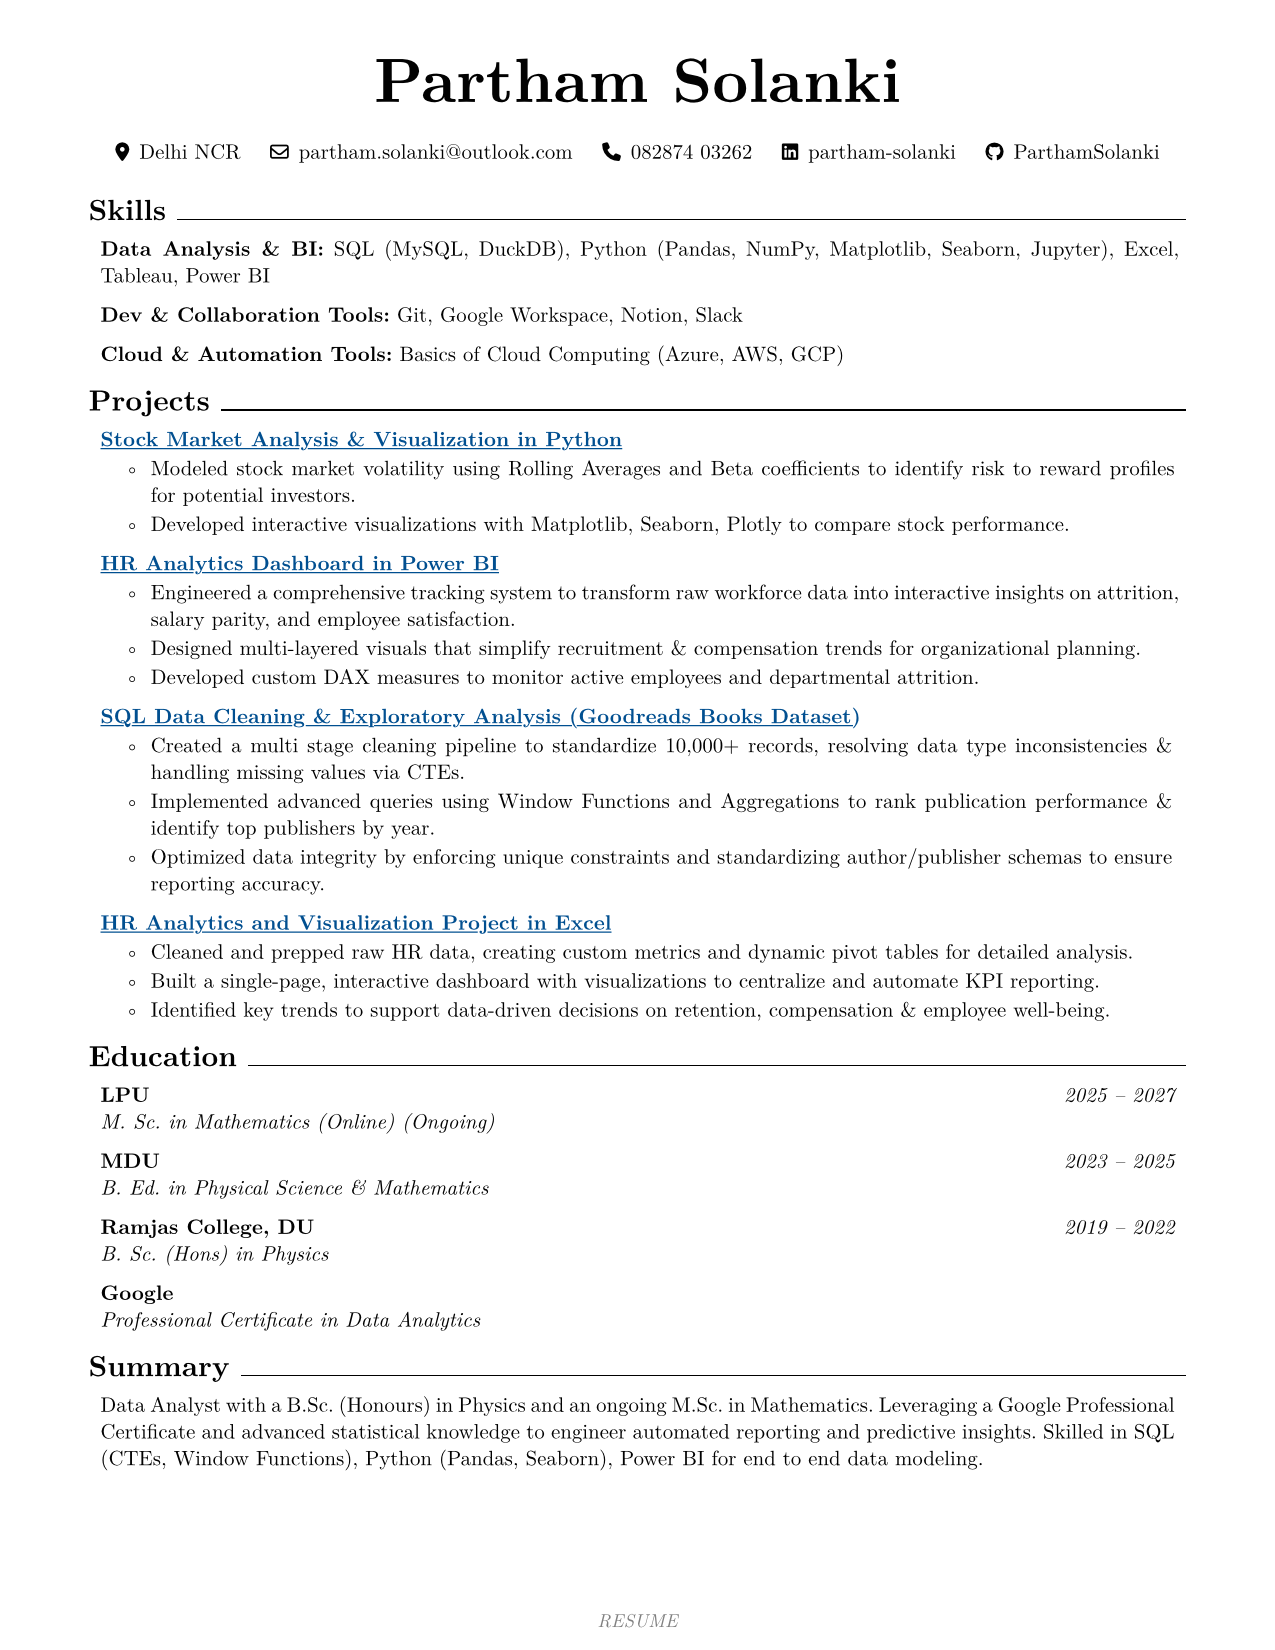
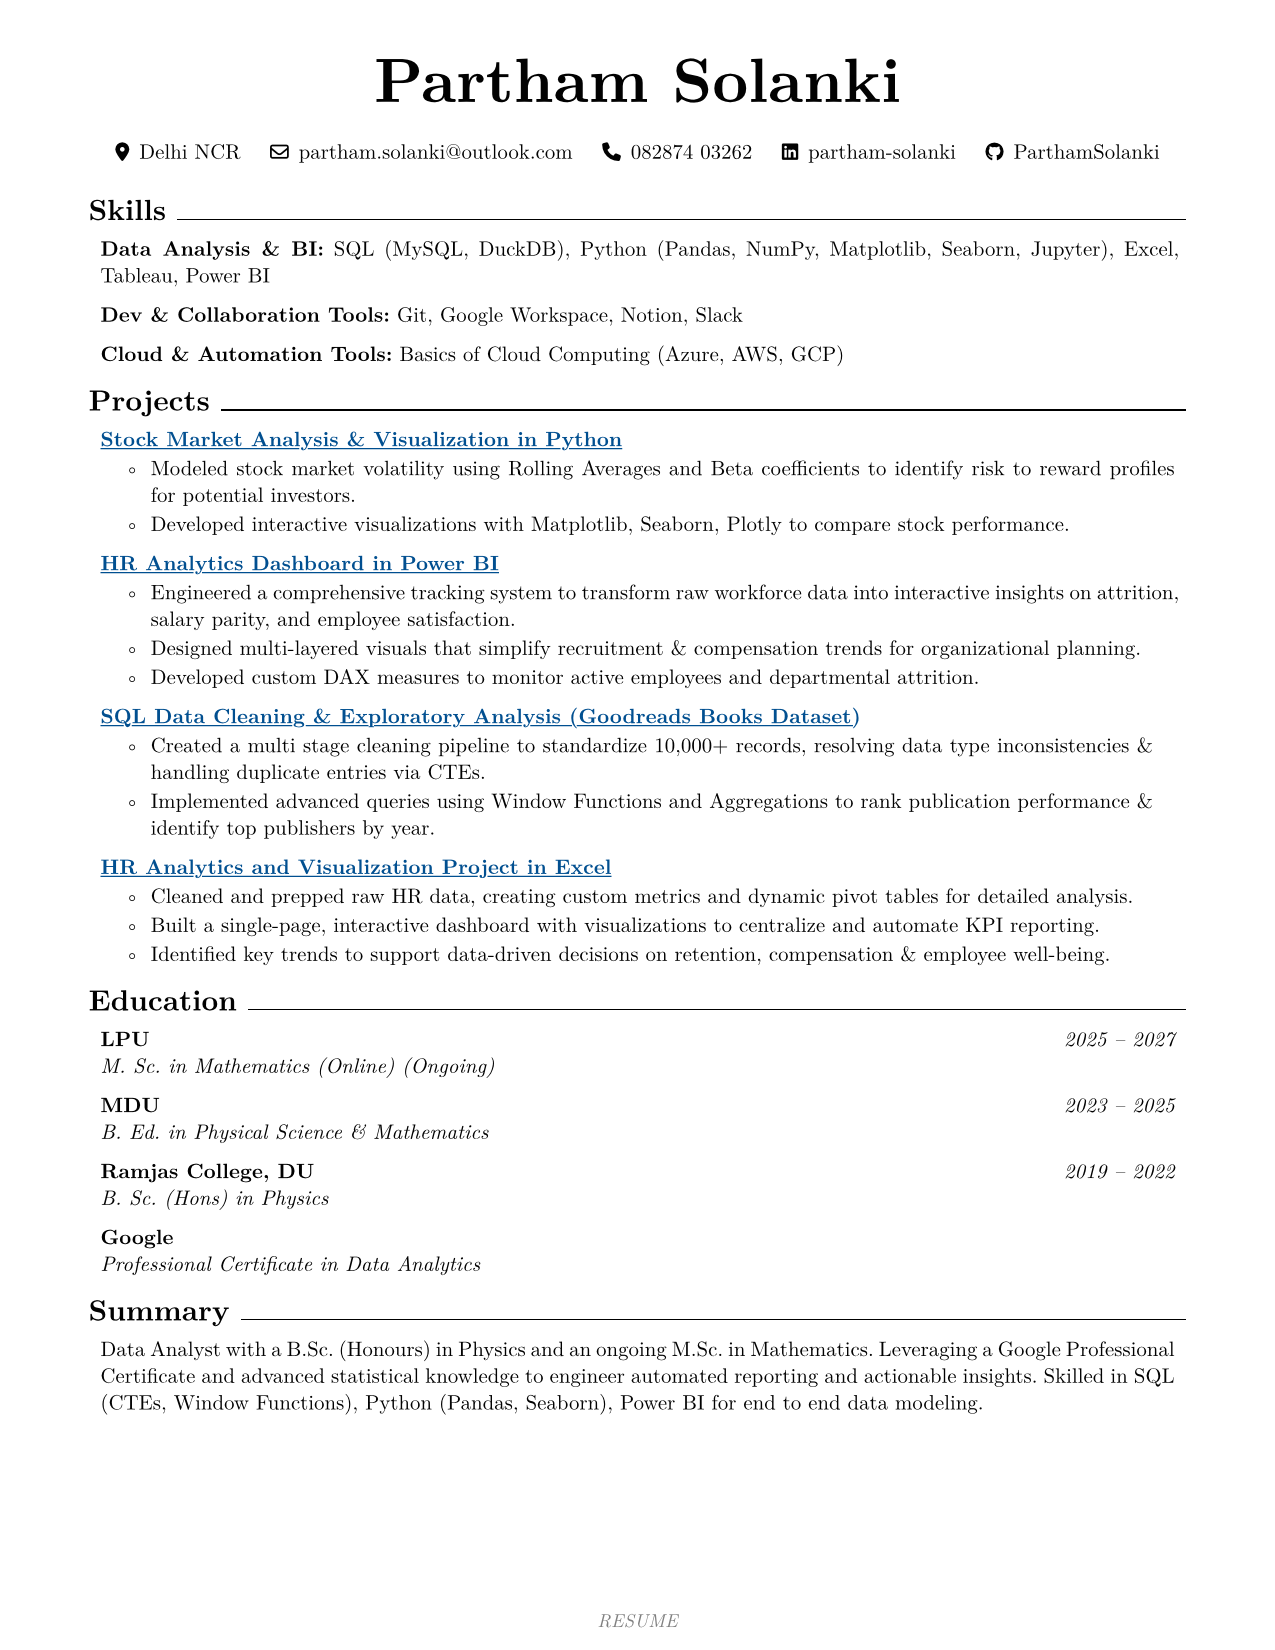
Resume updating

Changed region(s): [[0.0612, 0.4327, 0.9176, 0.8964], [0.8871, 0.6182, 0.9176, 0.7109]]

diff --git a/rendercv_output/Partham_Solanki_CV.html b/rendercv_output/Partham_Solanki_CV.html
@@ -67,9 +67,8 @@
         </ul>
         <h2><a href="https://github.com/ParthamSolanki/sql_project_resume">SQL Data Cleaning &amp; Exploratory Analysis (Goodreads Books Dataset)</a></h2>
         <ul>
-        <li>Created a multi stage cleaning pipeline to standardize 10,000+ records, resolving data type inconsistencies &amp; handling missing values via CTEs.</li>
+        <li>Created a multi stage cleaning pipeline to standardize 10,000+ records, resolving data type inconsistencies &amp; handling duplicate entries via CTEs.</li>
         <li>Implemented advanced queries using Window Functions and Aggregations to rank publication performance &amp; identify top publishers by year.</li>
-        <li>Optimized data integrity by enforcing unique constraints and standardizing author/publisher schemas to ensure reporting accuracy.</li>
         </ul>
         <h2><a href="https://github.com/ParthamSolanki/excel_project_resume">HR Analytics and Visualization Project in Excel</a></h2>
         <ul>
@@ -92,7 +91,7 @@
         </ul>
         <h2>Google, Professional Certificate in Data Analytics</h2>
         <h1>Summary</h1>
-        <p>Data Analyst with a B.Sc. (Honours) in Physics and an ongoing M.Sc. in Mathematics. Leveraging a Google Professional Certificate and advanced statistical knowledge to engineer automated reporting and predictive insights. Skilled in SQL (CTEs, Window Functions), Python (Pandas, Seaborn), Power BI for end to end data modeling.</p>
+        <p>Data Analyst with a B.Sc. (Honours) in Physics and an ongoing M.Sc. in Mathematics. Leveraging a Google Professional Certificate and advanced statistical knowledge to engineer automated reporting and actionable insights. Skilled in SQL (CTEs, Window Functions), Python (Pandas, Seaborn), Power BI for end to end data modeling.</p>
     </article>
 </body>
 

diff --git a/rendercv_output/Partham_Solanki_CV.md b/rendercv_output/Partham_Solanki_CV.md
@@ -27,9 +27,8 @@
 
 ## [SQL Data Cleaning & Exploratory Analysis (Goodreads Books Dataset)](https://github.com/ParthamSolanki/sql_project_resume)
 
-- Created a multi stage cleaning pipeline to standardize 10,000+ records, resolving data type inconsistencies & handling missing values via CTEs.
+- Created a multi stage cleaning pipeline to standardize 10,000+ records, resolving data type inconsistencies & handling duplicate entries via CTEs.
 - Implemented advanced queries using Window Functions and Aggregations to rank publication performance & identify top publishers by year.
-- Optimized data integrity by enforcing unique constraints and standardizing author/publisher schemas to ensure reporting accuracy.
 
 ## [HR Analytics and Visualization Project in Excel](https://github.com/ParthamSolanki/excel_project_resume)
 
@@ -56,5 +55,5 @@
 
 # Summary
 
-Data Analyst with a B.Sc. (Honours) in Physics and an ongoing M.Sc. in Mathematics. Leveraging a Google Professional Certificate and advanced statistical knowledge to engineer automated reporting and predictive insights. Skilled in SQL (CTEs, Window Functions), Python (Pandas, Seaborn), Power BI for end to end data modeling.
+Data Analyst with a B.Sc. (Honours) in Physics and an ongoing M.Sc. in Mathematics. Leveraging a Google Professional Certificate and advanced statistical knowledge to engineer automated reporting and actionable insights. Skilled in SQL (CTEs, Window Functions), Python (Pandas, Seaborn), Power BI for end to end data modeling.
 
